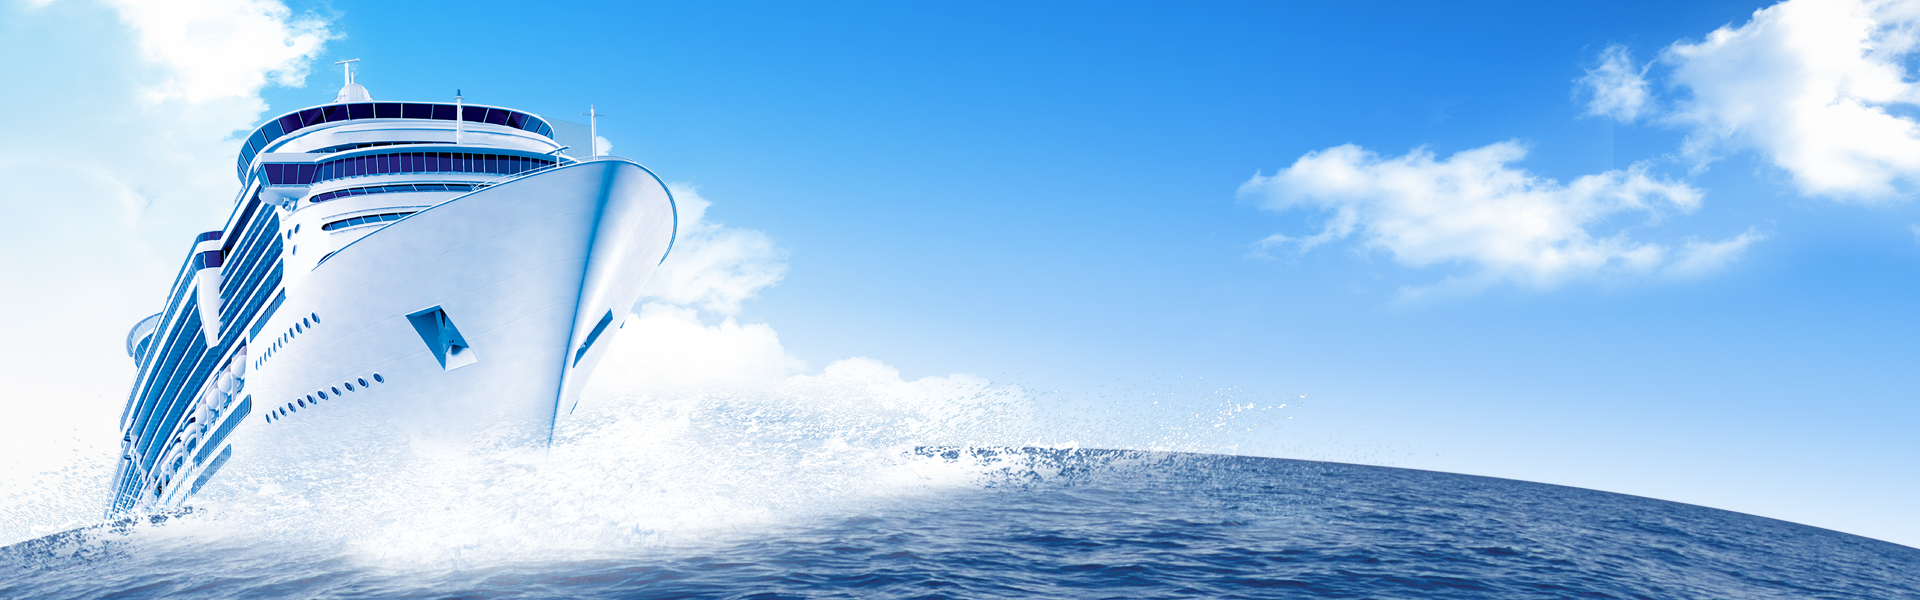
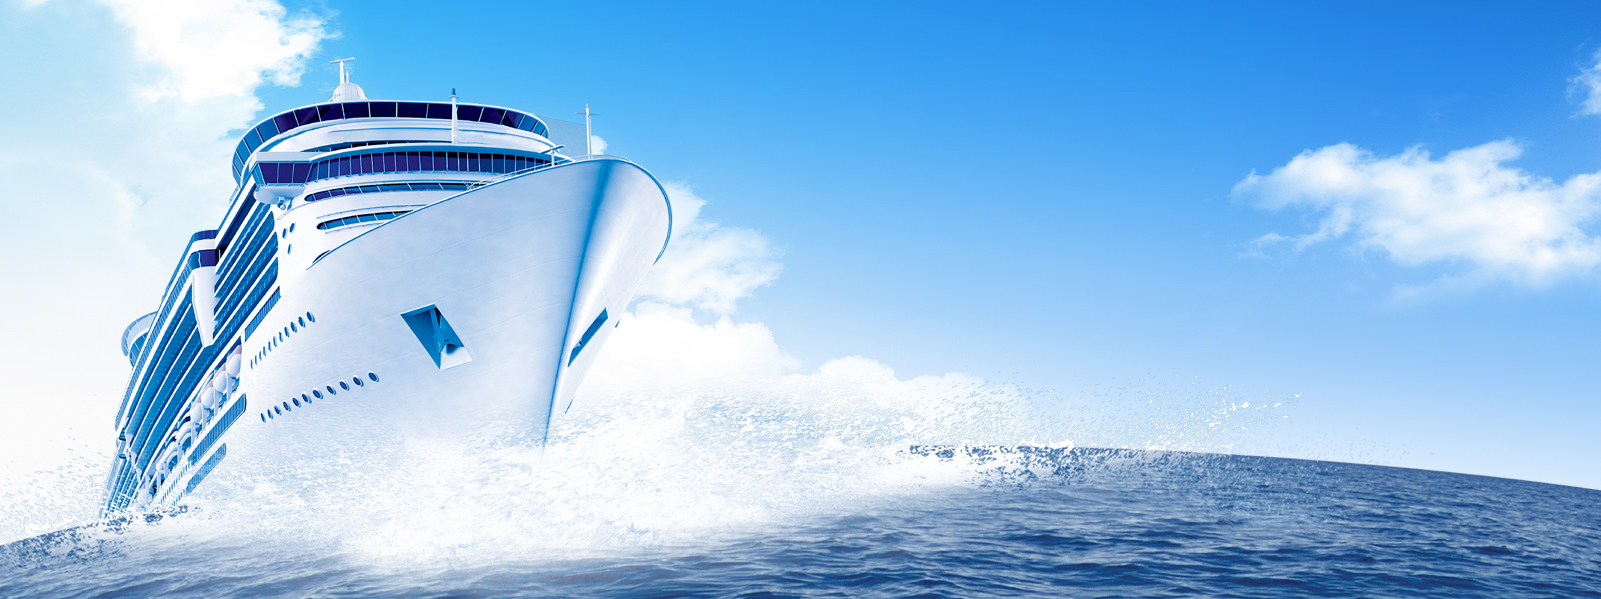
update first page

diff --git a/Public/Home/css/index.css b/Public/Home/css/index.css
@@ -1209,7 +1209,8 @@ body {
 #firstPage .firstPage-bg {
   width: 100%;
   height: 100%;
-  background: url(../images/firstPage.jpg) no-repeat center;
+  margin-top: 60px;
+  background: url(../images/ship-bg-10.jpg) no-repeat;
   background-size: cover;
 }
 
@@ -1224,11 +1225,11 @@ body {
 }
 
 .box-fadein-left {
-  left: -30%;
+  left: -20%;
 }
 
 .box-fadein-right {
-  right: -6%;
+  right: -20%;
 }
 
 .radius-button {
@@ -1238,7 +1239,7 @@ body {
   font-size: 19px;
   text-transform: uppercase;
   letter-spacing: 2.5px;
-  background-color: #fff;
+  background-color: #2196f3;
   border: none;
   border-radius: 45px;
   box-shadow: 0px 8px 15px rgba(0, 0, 0, 0.2);
@@ -1247,15 +1248,17 @@ body {
   outline: none;
   text-align: center;
 }
-
+.radius-button a {
+  color: #fff;
+}
 .radius-button:hover {
-  background-color: #2EE59D;
-  box-shadow: 0px 15px 20px rgba(46, 229, 157, 0.4);
+  background-color: #fff;
   top: 69%;
 }
 
 .radius-button:hover a {
-  color: #fff;
+  color: #337ab7;
+  text-decoration: none;
 }
 
 /* Second Page*/
